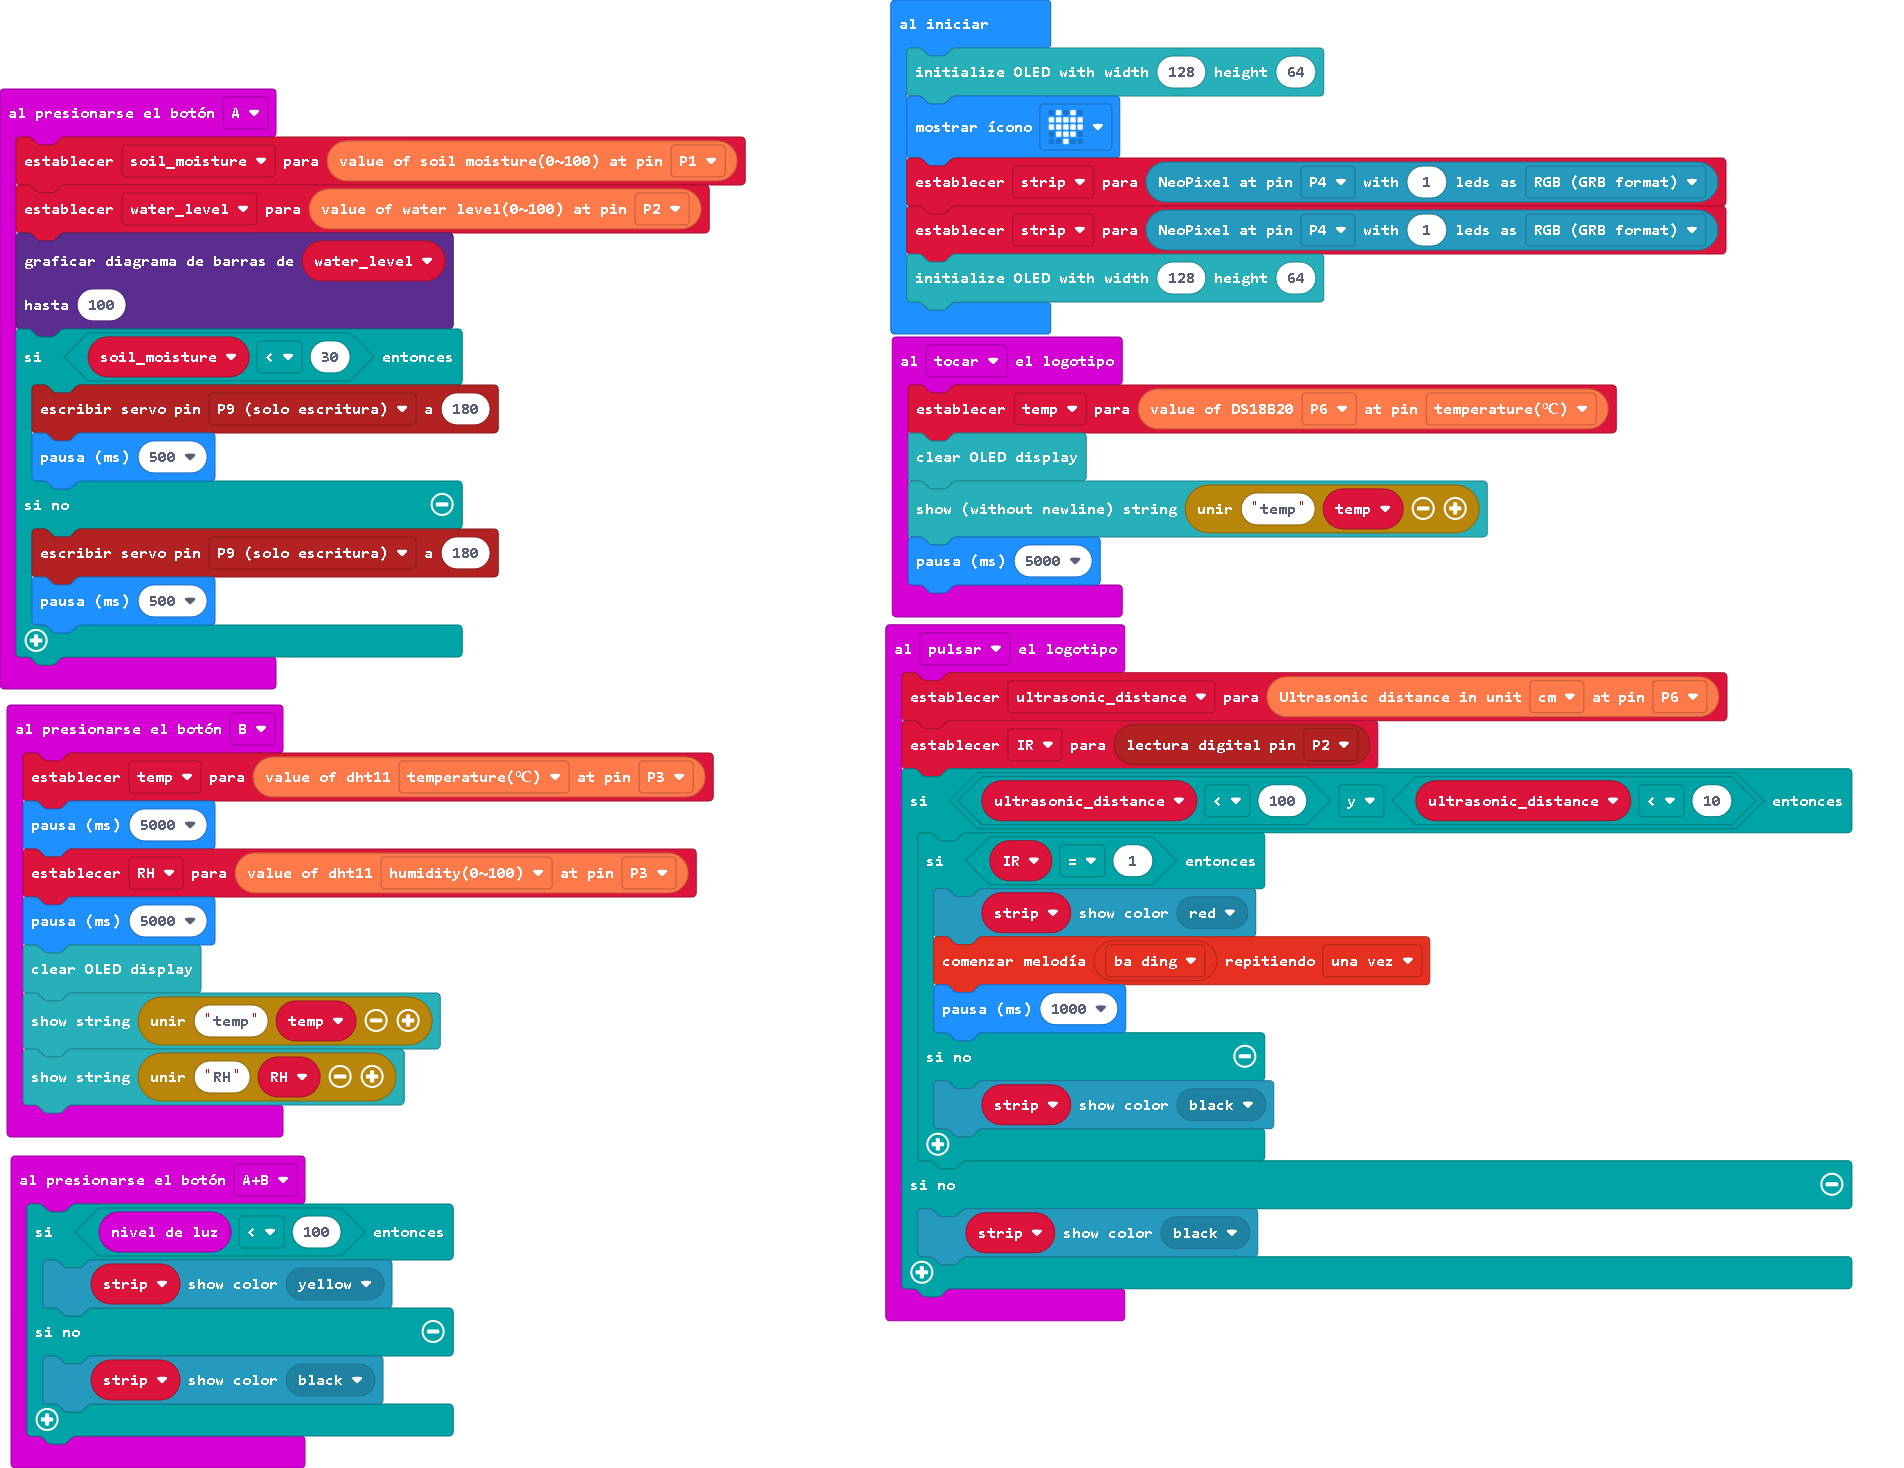
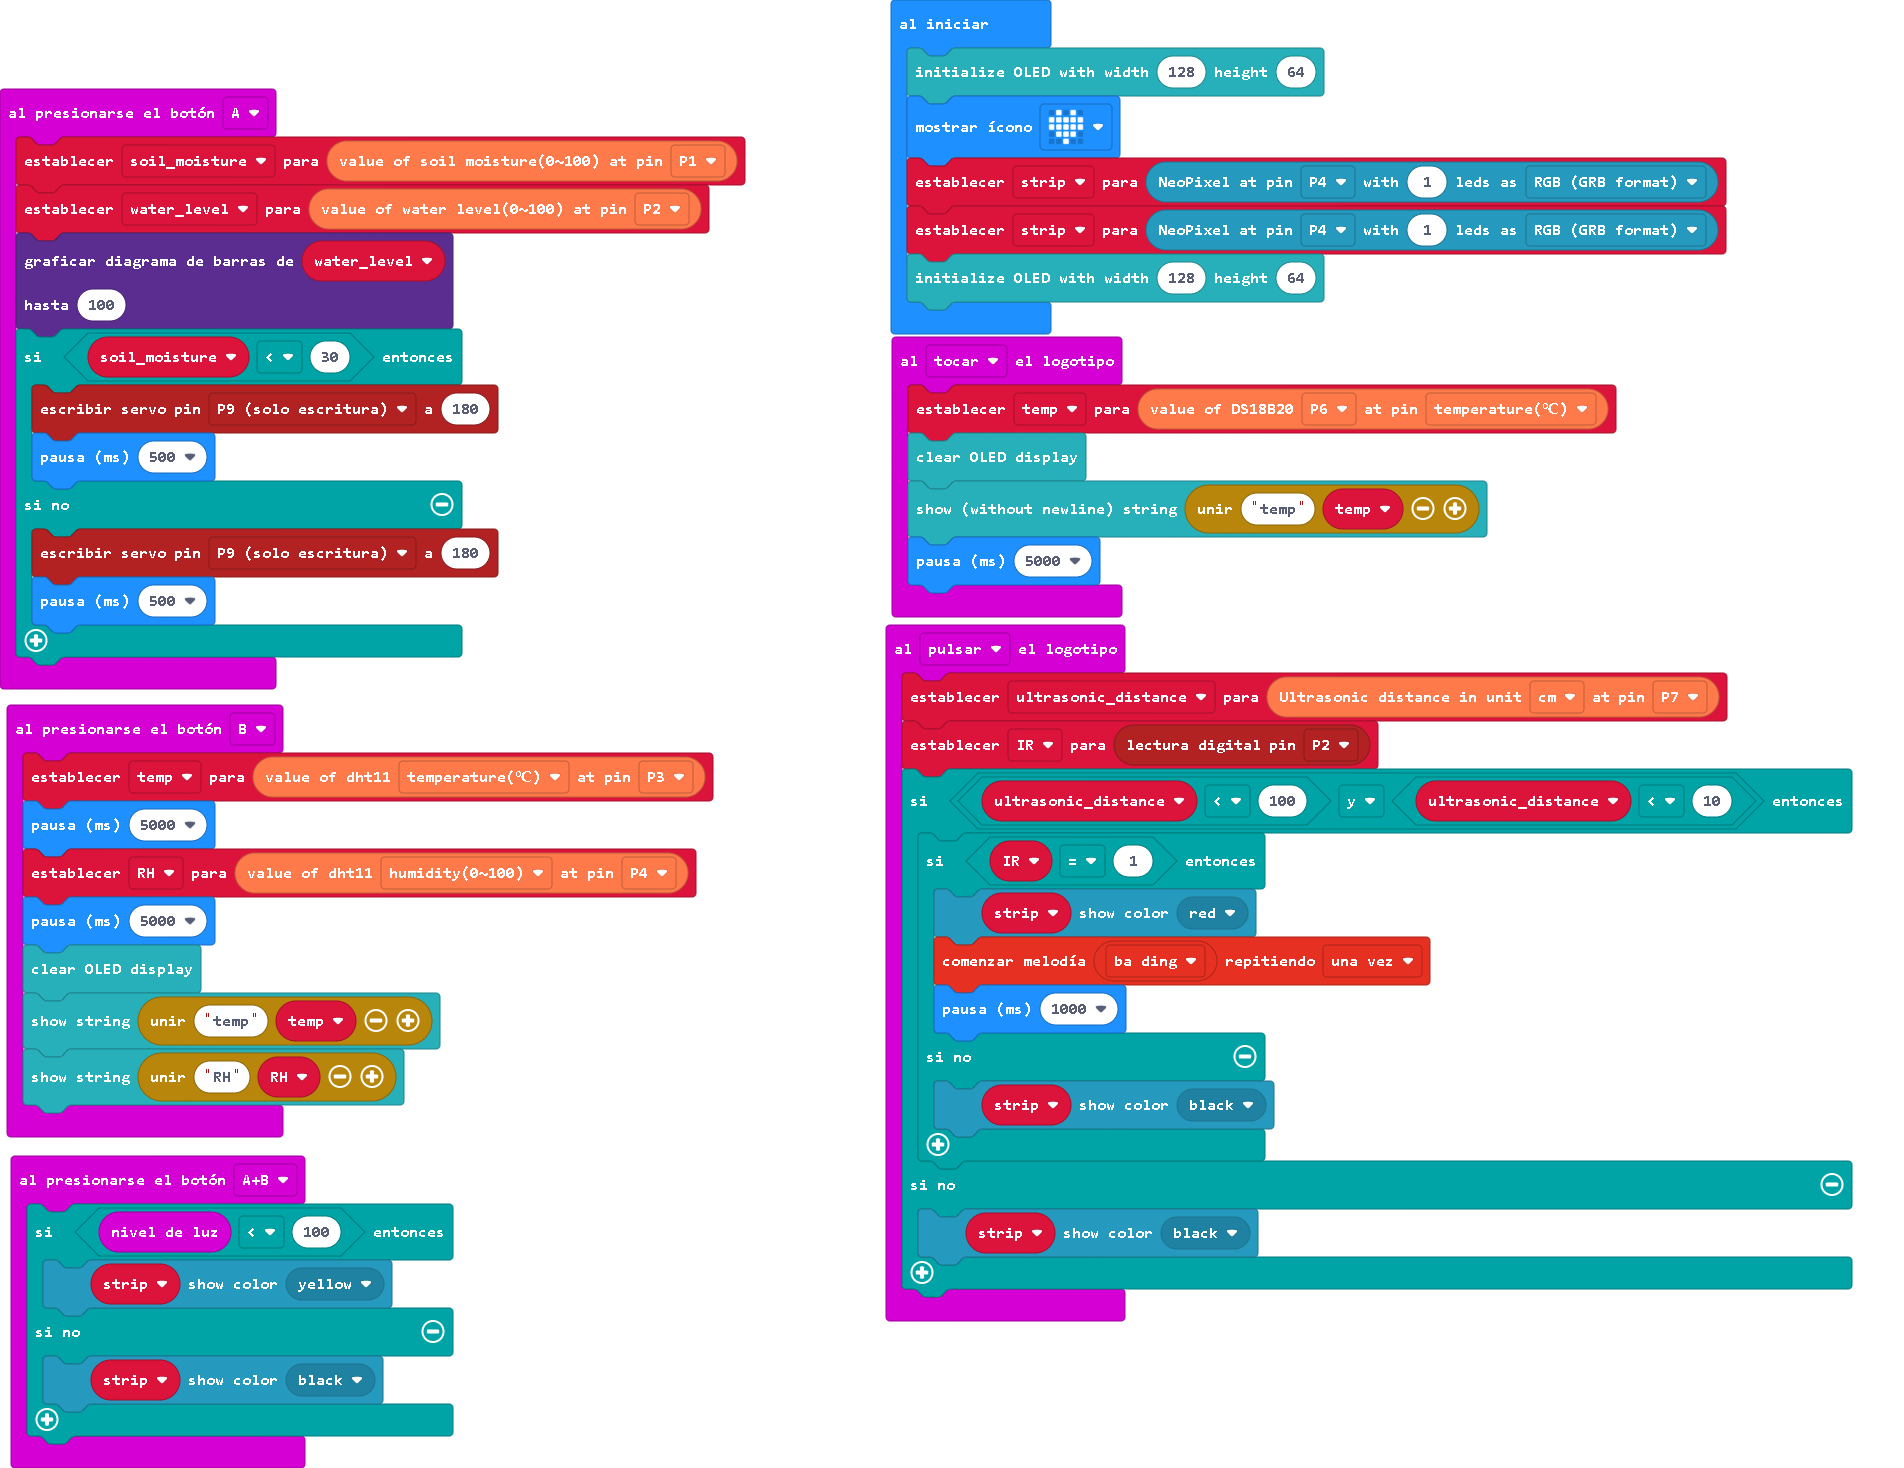
Actualizar main.blocks, main.ts

diff --git a/main.ts b/main.ts
@@ -1,5 +1,5 @@
 input.onLogoEvent(TouchButtonEvent.Pressed, function () {
-    ultrasonic_distance = Environment.sonarbit_distance(Environment.Distance_Unit.Distance_Unit_cm, DigitalPin.P6)
+    ultrasonic_distance = Environment.sonarbit_distance(Environment.Distance_Unit.Distance_Unit_cm, DigitalPin.P7)
     IR = pins.digitalReadPin(DigitalPin.P2)
     if (ultrasonic_distance < 100 && ultrasonic_distance < 10) {
         if (IR == 1) {
@@ -38,7 +38,7 @@ input.onButtonPressed(Button.AB, function () {
 input.onButtonPressed(Button.B, function () {
     temp = Environment.dht11value(Environment.DHT11Type.DHT11_temperature_C, DigitalPin.P3)
     basic.pause(5000)
-    RH = Environment.dht11value(Environment.DHT11Type.DHT11_humidity, DigitalPin.P3)
+    RH = Environment.dht11value(Environment.DHT11Type.DHT11_humidity, DigitalPin.P4)
     basic.pause(5000)
     OLED.clear()
     OLED.writeStringNewLine("temp" + temp)
